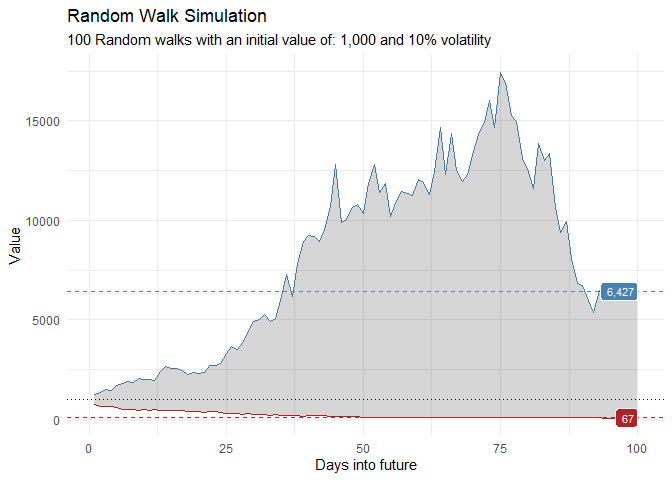
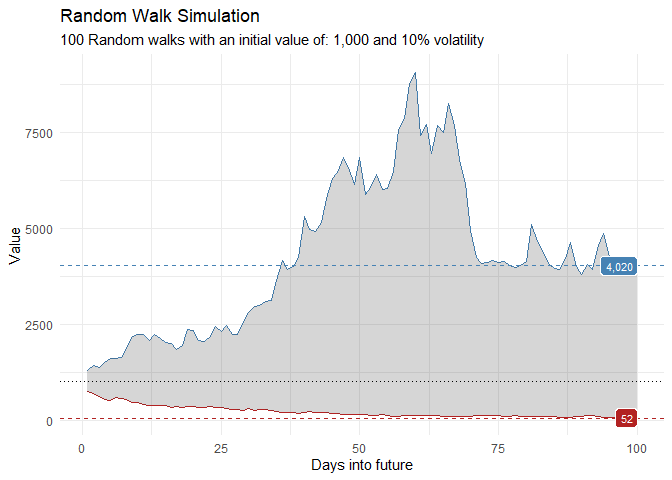
rebuild readme

diff --git a/README.md b/README.md
@@ -47,14 +47,14 @@ df <- ts_random_walk()
 
 head(df)
 #> # A tibble: 6 × 4
-#>     run     x       y cum_y
-#>   <dbl> <dbl>   <dbl> <dbl>
-#> 1     1     1  0.146  1146.
-#> 2     1     2  0.167  1337.
-#> 3     1     3  0.0706 1431.
-#> 4     1     4  0.0132 1450.
-#> 5     1     5 -0.0112 1434.
-#> 6     1     6  0.168  1674.
+#>     run     x        y cum_y
+#>   <dbl> <dbl>    <dbl> <dbl>
+#> 1     1     1  0.163   1163.
+#> 2     1     2 -0.0215  1138.
+#> 3     1     3 -0.183    930.
+#> 4     1     4  0.00974  939.
+#> 5     1     5  0.0599   995.
+#> 6     1     6  0.0877  1082.
 ```
 
 Now that the data has been generated, lets take a look at it.
